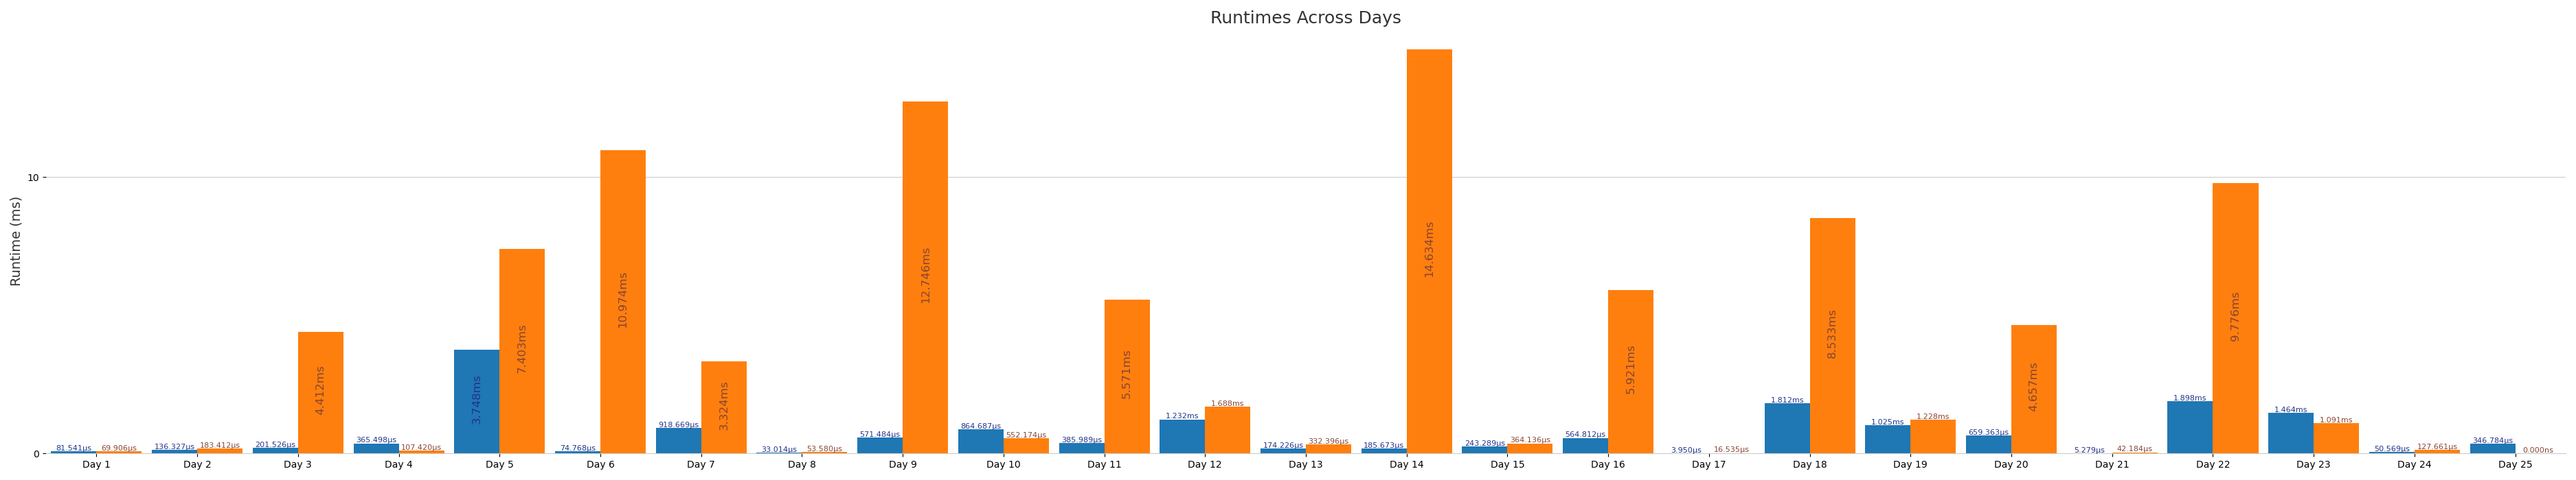
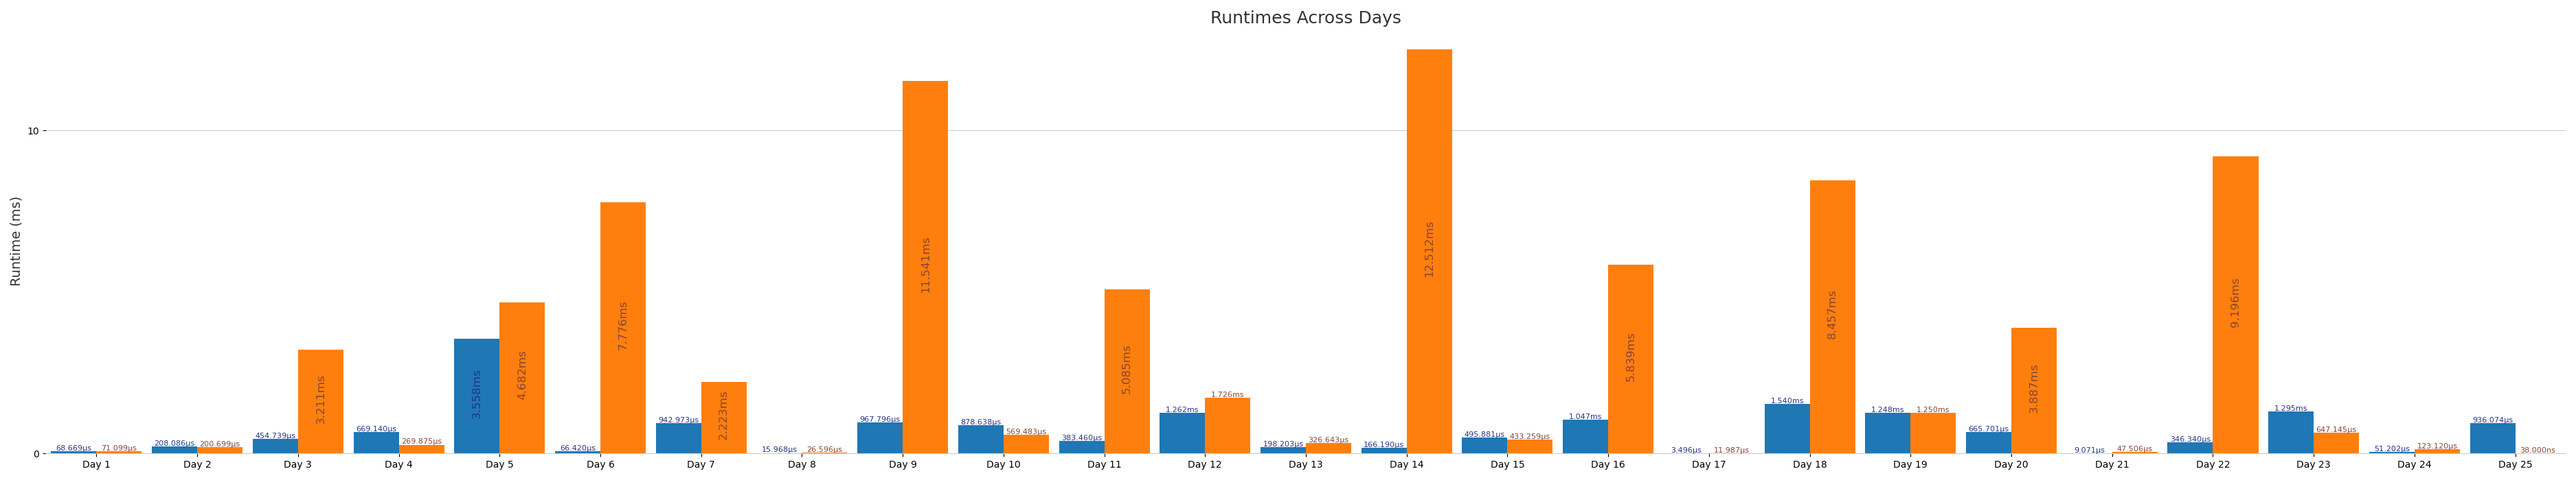
Fixed benchmarking

diff --git a/utils/src/runner.rs b/utils/src/runner.rs
@@ -1,6 +1,6 @@
 use std::fmt::Debug;
 use std::hint::black_box;
-use std::time::Instant;
+use std::time::{Duration, Instant};
 use std::{env, fs};
 
 #[inline]
@@ -27,6 +27,36 @@ pub fn get_input(opt_day: Option<u8>) -> String {
     }
 
     result
+}
+
+pub fn benchmark_solution<T: PartialEq + Debug>(
+    func: &dyn Fn(&str) -> T,
+    input: &str,
+    iteration_count: u32,
+) -> Duration {
+    let mut times = Vec::with_capacity(iteration_count as usize);
+    for _ in 0..iteration_count {
+        let bench_start_time = Instant::now();
+        let _ = black_box(func(&input));
+        let bench_time = bench_start_time.elapsed();
+        times.push(bench_time.as_secs_f32());
+    }
+
+    times.sort_unstable_by(|a, b| a.partial_cmp(b).unwrap());
+
+    let q1 = times[times.len() / 4];
+    let q3 = times[3 * times.len() / 4];
+    let iqr = q3 - q1;
+    let lower_bound = q1 - 1.5 * iqr;
+    let upper_bound = q3 + 1.5 * iqr;
+
+    let cleaned = times
+        .iter()
+        .cloned()
+        .filter(|&x| x >= lower_bound && x <= upper_bound)
+        .collect::<Vec<f32>>();
+
+    Duration::from_secs_f32(cleaned[cleaned.len() / 2])
 }
 
 #[inline]
@@ -60,7 +90,7 @@ pub fn test_solutions<T: PartialEq + Debug, K: PartialEq + Debug>(
     let env_values = env::args().collect::<Vec<String>>();
     let benchmark = env_values
         .get(1)
-        .is_some_and(|x| x.as_str().starts_with("--benchmark="));
+        .is_some_and(|x| x.as_str().starts_with("benchmark="));
     let iteration_count = env_values
         .get(1)
         .map(|x| x.as_str().split_once("=").unwrap().1)
@@ -73,17 +103,12 @@ pub fn test_solutions<T: PartialEq + Debug, K: PartialEq + Debug>(
         let result = function_one(&input);
         let initial_time = initial_start_time.elapsed();
 
-        if benchmark {
-            let bench_start_time = Instant::now();
-            for _ in 0..iteration_count {
-                let result = function_one(&input);
-                black_box(result);
-            }
-            let bench_time = bench_start_time.elapsed() / iteration_count;
-            println!("Part-1 ( {:?} ) - {:?} ", result, bench_time);
+        let time = if benchmark {
+            benchmark_solution(&function_one, &input, iteration_count)
         } else {
-            println!("Part-1 ( {:?} ) - {:?} ", result, initial_time);
-        }
+            initial_time
+        };
+        println!("Part-1 ( {:?} ) - {:?} ", result, time);
     } else {
         println!("Part One Wrong");
     }
@@ -93,17 +118,12 @@ pub fn test_solutions<T: PartialEq + Debug, K: PartialEq + Debug>(
         let result = function_two(&input);
         let initial_time = initial_start_time.elapsed();
 
-        if benchmark {
-            let bench_start_time = Instant::now();
-            for _ in 0..iteration_count {
-                let result = function_two(&input);
-                black_box(result);
-            }
-            let bench_time = bench_start_time.elapsed() / iteration_count;
-            println!("Part-2 ( {:?} ) - {:?}", result, bench_time);
+        let time = if benchmark {
+            benchmark_solution(&function_two, &input, iteration_count)
         } else {
-            println!("Part-2 ( {:?} ) - {:?}", result, initial_time);
-        }
+            initial_time
+        };
+        println!("Part-2 ( {:?} ) - {:?} ", result, time);
     } else {
         println!("Part Two Wrong");
     }

diff --git a/utils/src/thread.rs b/utils/src/thread.rs
@@ -4,8 +4,11 @@ use rayon::vec::IntoIter;
 use std::thread::available_parallelism;
 
 #[inline]
-pub fn activate_all_threads<T: Sync + Send>(items: Vec<T>) -> Enumerate<Chunks<IntoIter<T>>> {
+pub fn activate_all_threads<T: Sync + Send>(
+    items: Vec<T>,
+    opt_chunk_size: Option<usize>,
+) -> Enumerate<Chunks<IntoIter<T>>> {
     let threads = available_parallelism().unwrap().get();
-    let chunk_size = items.len().div_ceil(threads);
+    let chunk_size = opt_chunk_size.unwrap_or(items.len().div_ceil(threads));
     items.into_par_iter().chunks(chunk_size).enumerate()
 }

diff --git a/benchmark.py b/benchmark.py
@@ -68,7 +68,7 @@ def compile_rust_project(day_input):
 def run_rust_binary(day_input):
     try:
         result = subprocess.run(
-            [f"target/release/day{day_input}", "--benchmark=100"],
+            [f"target/release/day{day_input}", "benchmark=100"],
             cwd="./",
             capture_output=True,
             text=True,
